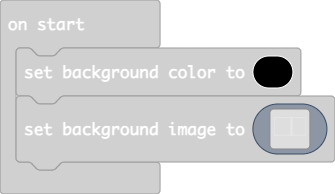
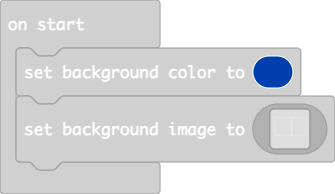
Update main.blocks, main.ts

Changed region(s): [[0.7463, 0.5258, 0.9851, 0.8041], [0.7463, 0.2784, 0.8955, 0.4639]]

diff --git a/main.ts b/main.ts
@@ -1,4 +1,4 @@
-scene.setBackgroundColor(15)
+scene.setBackgroundColor(8)
 scene.setBackgroundImage(img`
     ................................................................................................................................................................
     ................................................................................................................................................................
